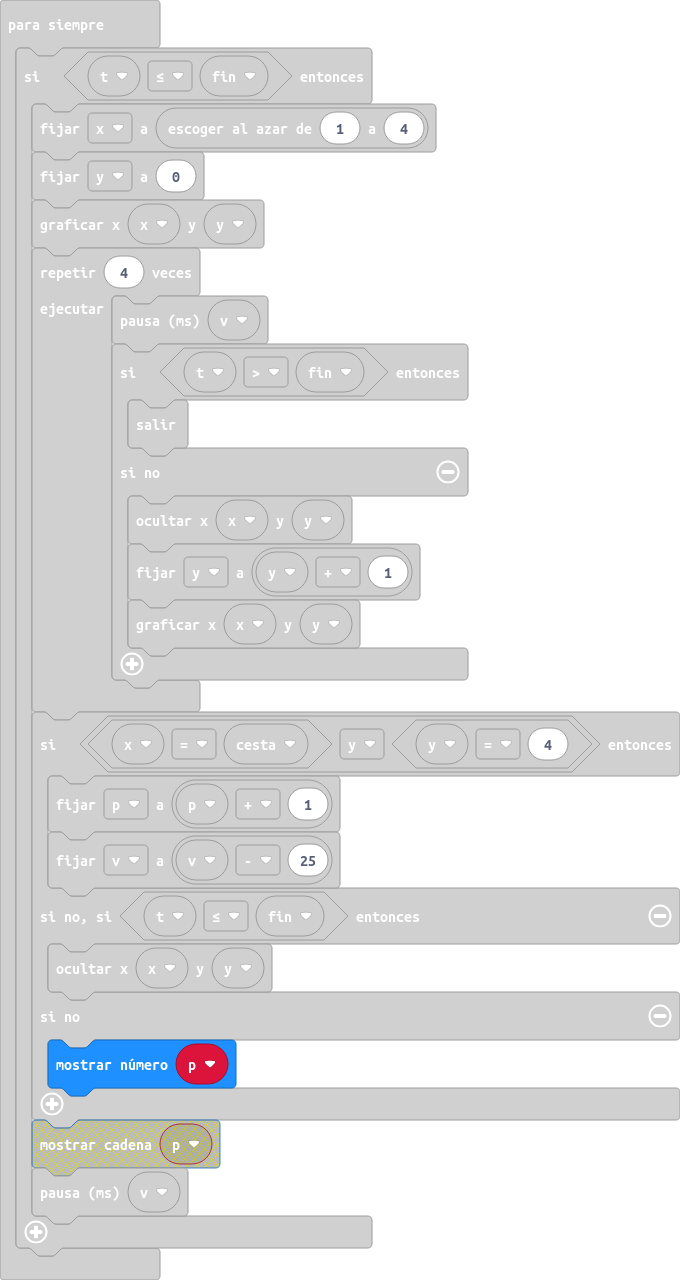
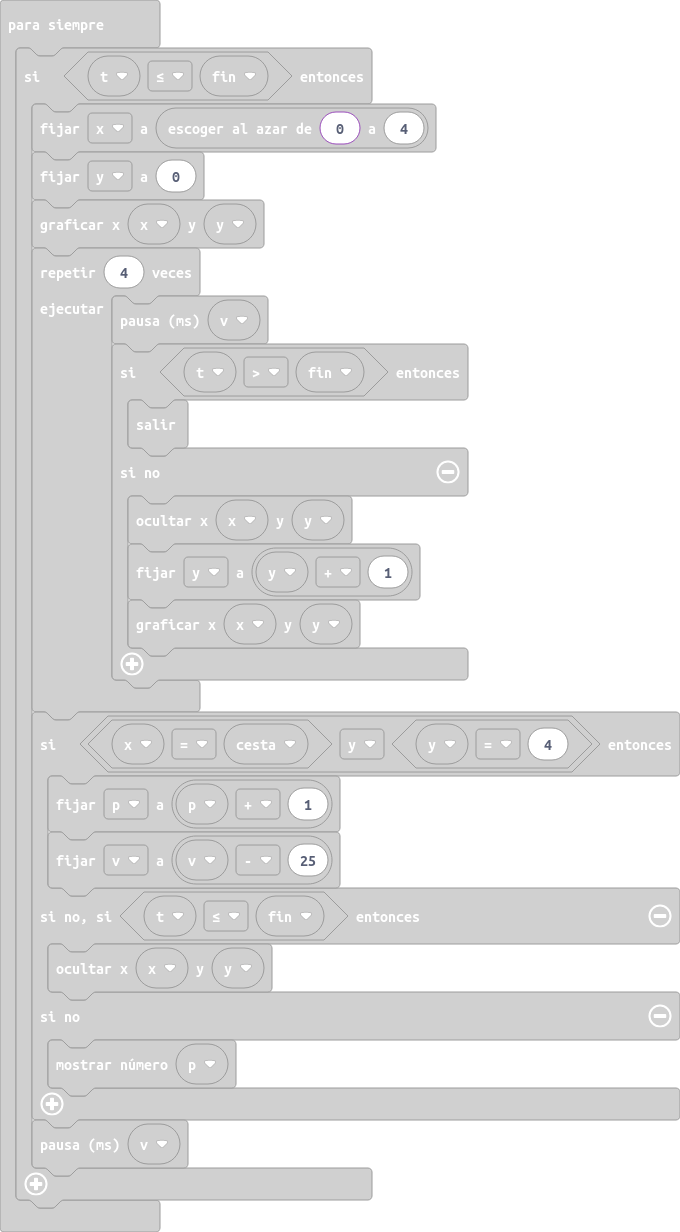
Actualizar main.blocks, main.ts

Changed region(s): [[0.0309, 0.0308, 1.0, 0.987], [0.0309, 0.0308, 0.0618, 0.0617]]

diff --git a/main.ts b/main.ts
@@ -25,7 +25,7 @@ cesta = 2
 led.plot(cesta, 4)
 basic.forever(function () {
     if (t <= fin) {
-        x = randint(1, 4)
+        x = randint(0, 4)
         y = 0
         led.plot(x, y)
         for (let index = 0; index < 4; index++) {
